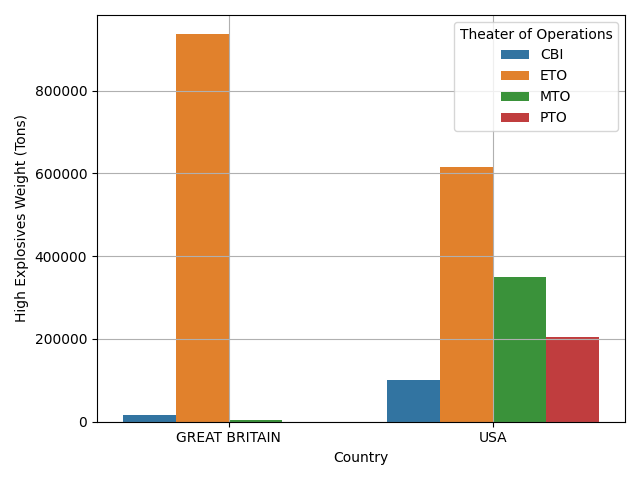
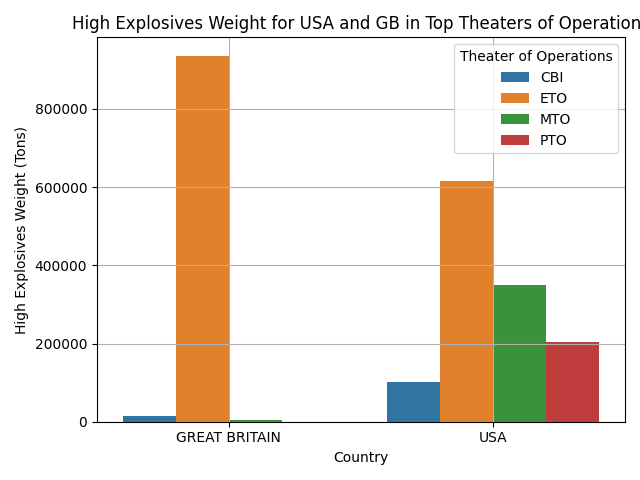
Add titles to all graphs

diff --git a/operations.py b/operations.py
@@ -34,10 +34,13 @@ print(df.head())
 
 # Drop useless columns
 df.drop(columns=['Target ID', 'Source ID', 'Unit ID'], inplace=True)
+print(df.head())
 
-# Filter the DataFrame to include only columns with more than 10000 values
+# Filter the DataFrame to include only columns with more than 50000 values
+print('Filtering the DataFrame to include only columns with more than 50000 values...')
 useful_columns = df.columns[len(df) - df.isnull().sum() > 50000]
 df = df[useful_columns]
+print(f'Useful features: {useful_columns}')
 
 # Fill missing values
 numerical_features = df.select_dtypes(include='float64').columns
@@ -45,12 +48,14 @@ categorical_features = df.columns[~df.columns.isin(
     df.select_dtypes(include='float64').columns)]
 df[numerical_features] = df[numerical_features].fillna(
     df[numerical_features].mean())
+print(df.head())
 
 # Filter the DataFrame to include only the top 10 target countries
 top_target_countries = df[
     'Target Country'].value_counts().nlargest(10).index
 df_top_target_countries = df[df['Target Country'].isin(
     top_target_countries)]
+print('DataFrame that only includes the top 10 target countries:\n', df_top_target_countries)
 
 # Filter the DataFrame to include only the top 4 theaters of ops
 top_theaters_of_ops = df[
@@ -58,16 +63,18 @@ top_theaters_of_ops = df[
 df_top_theaters_of_ops = df_top_target_countries[
     df_top_target_countries['Theater of Operations'].isin(
         top_theaters_of_ops)]
+print('DataFrame that further only includes the top 4 theaters of ops:\n', df_top_theaters_of_ops)
 
 # Filter the DataFrame to include only the top 10 target types
 top_target_types = df['Target Type'].value_counts().nlargest(10).index
 df_top_target_types = df_top_theaters_of_ops[
     df_top_theaters_of_ops['Target Type'].isin(top_target_types)]
+print('DataFrame that further only includes the top 10 target types:\n', df_top_target_types)
 
-# Drop missing values
-df_reduced = df.dropna(subset=categorical_features)
-df_top_theaters_of_ops_reduced = df_top_target_types.dropna(
-    subset=categorical_features)
+# Drop missing values for categorical features
+# df_reduced = df.dropna(subset=categorical_features)
+# df_top_theaters_of_ops_reduced = df_top_target_types.dropna(
+#     subset=categorical_features)
 
 
 # Outlier detection and removal (IQR method)
@@ -98,32 +105,31 @@ df['Mission Date'] = pd.to_datetime(df['Mission Date'])
 df['Year'] = df['Mission Date'].dt.year
 plt.figure(figsize=(12, 6))
 sns.lineplot(x='Year', y='High Explosives Weight (Tons)', data=df)
-plt.title = 'Trends in High Explosives Weight Over Time'
+plt.title('Trends in High Explosives Weight Over Time')
 plt.xlabel('Year')
 plt.ylabel('High Explosives Weight (Tons)')
 plt.savefig(f"lineplot.png")
 plt.show()
-
 
 # Bar plot 1:
 # Bombing operations for each country
 top_countries = df['Country'].value_counts()
 plt.figure(figsize=(12, 6))
 top_countries.plot(kind='bar')
-plt.title = 'Bombing Operations for Each Country'
+plt.title('Bombing Operations for Each Country')
 plt.xlabel('Country')
 plt.ylabel('Number of Operations')
 plt.tight_layout()
 plt.savefig(f"barplot_1.png")
 plt.show()
 
-# High explosives weight (tons) for each country
 # Bar plot 2:
+# High explosives weight (tons) for each country
 country_and_explosives_weight = df[['Country', 'High Explosives Weight (Tons)', 'Total Weight (Tons)']].dropna()
 average_explosive_weight = country_and_explosives_weight.groupby('Country').mean()
 average_explosive_weight.plot(kind='bar',
                               label=['High Explosives Weight (Tons)', 'Total Weight (Tons)'], stacked=True)
-plt.title = 'Average High Explosives Weight and Total Weight for Each Country'
+plt.title('Average High Explosives Weight and Total Weight for Each Country')
 plt.xlabel('Country')
 plt.ylabel('Average Weight (Tons)')
 plt.legend()
@@ -133,6 +139,7 @@ plt.show()
 
 # Group Bar plot
 # High explosives weight (tons) for the USA and GB
+plt.title('High Explosives Weight for USA and GB in Top Theaters of Operations')
 create_and_save_plot(sns.barplot, x='Country', y='High Explosives Weight (Tons)',
                      hue='Theater of Operations',
                      data=df_top_theaters_of_ops[df_top_theaters_of_ops['Country']
@@ -140,74 +147,70 @@ create_and_save_plot(sns.barplot, x='Country', y='High Explosives Weight (Tons)'
                      .groupby(['Country', 'Theater of Operations'])
                      .sum().reset_index(), errorbar=None)
 
-
 # Count plot
+plt.title('Number of Operations in Top Theaters of Operations')
 create_and_save_plot(sns.countplot, x='Theater of Operations',
                      data=df_top_theaters_of_ops)
 
-
 # Pie chart
+plt.title('Distribution of Operations in Top Theaters of Operations')
 create_and_save_plot(df_top_theaters_of_ops['Theater of Operations']
                      .value_counts().plot.pie, autopct='%1.1f%%')
 
-
 # Dist plot
+plt.title('Distribution of High Explosives Weight')
 create_and_save_plot(sns.histplot, x='High Explosives Weight (Tons)',
                      data=df_high_explosives_weight_outlier_removed, kde=True)
 
-
 # Pair plot
+plt.title('Pair Plot of Total Weight, Altitude, and High Explosives Weight')
 create_and_save_plot(sns.pairplot,
                      df_all_outlier_removed.sample(1000)[['Total Weight (Tons)',
                          'Altitude (Hundreds of Feet)',
                          'High Explosives Weight (Tons)']])
 
-
 # Heatmap with color bar
+plt.title('Correlation Heatmap of Numerical Features')
 create_and_save_plot(sns.heatmap, df[numerical_features].corr(),
                      annot=True, cmap='coolwarm')
 
-
 # Histogram plot with KDE
+plt.title('Distribution of Total Weight')
 create_and_save_plot(sns.histplot, x='Total Weight (Tons)',
                      data=df_total_weight_outlier_removed.sample(10000), kde=True)
 
-
-# QQ-plot
-# create_and_save_plot(sns.qqplot, df['Total Weight (Tons)'], line='s')
-
-
 # KDE plot
+plt.title('Kernel Density Estimation of Total Weight')
 create_and_save_plot(sns.kdeplot, x='Total Weight (Tons)', data=df_total_weight_outlier_removed,
                      fill=True, alpha=0.6, palette='viridis', linewidth=2)
 
-
 # lm or reg plot with scatter representation and regression line
+plt.title('Regression Plot of Altitude vs. Total Weight')
 create_and_save_plot(sns.regplot, x='Altitude (Hundreds of Feet)', y='Total Weight (Tons)',
                      data=df_total_weight_and_altitude_outlier_removed.sample(n=1000), scatter_kws={'alpha': 0.6},
                      line_kws={'color': 'red'})
 
-
 # Multivariate Box or Boxen plot
+plt.title('Boxen Plot of Total Weight in Top Theaters of Operations')
 create_and_save_plot(sns.boxenplot, x='Theater of Operations', y='Total Weight (Tons)', hue='Target Country',
                      data=df_top_theaters_of_ops_total_weight_outlier_removed.sample(10000))
 
-
 # Area plot
+plt.title('Total Weight Over Different Theaters of Operations')
 create_and_save_plot(df.groupby('Theater of Operations')['Total Weight (Tons)'].sum().plot.area)
 
-
 # Violin plot
+plt.title('Violin Plot of Total Weight in Top Theaters of Operations')
 create_and_save_plot(sns.violinplot, x='Theater of Operations', y='Total Weight (Tons)',
                      data=df_top_theaters_of_ops_total_weight_outlier_removed)
 
-
 # Joint plot with KDE and scatter representation
+plt.title('Joint Plot of Altitude vs. Total Weight')
 create_and_save_plot(sns.jointplot, x='Altitude (Hundreds of Feet)', y='Total Weight (Tons)',
                      data=df_total_weight_and_altitude_outlier_removed.sample(n=10000), kind='kde')
 
-
 # Rugplot
+plt.title('Rug Plot of Total Weight')
 sns.kdeplot(data=df_total_weight_outlier_removed.sample(10000, random_state=1),
             x='Total Weight (Tons)')
 create_and_save_plot(sns.rugplot,
